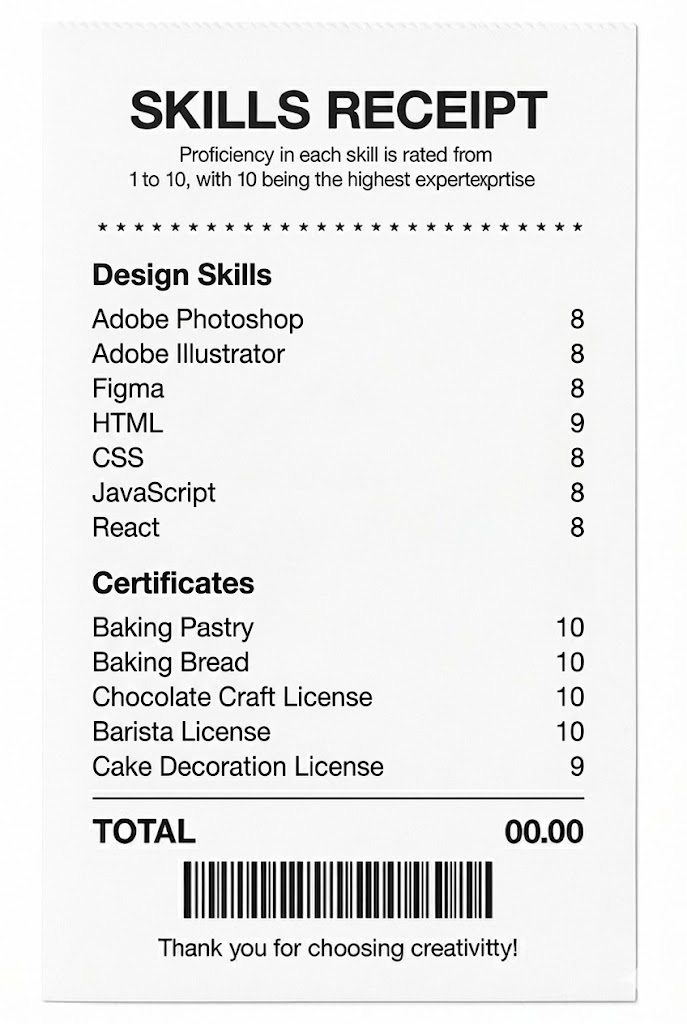
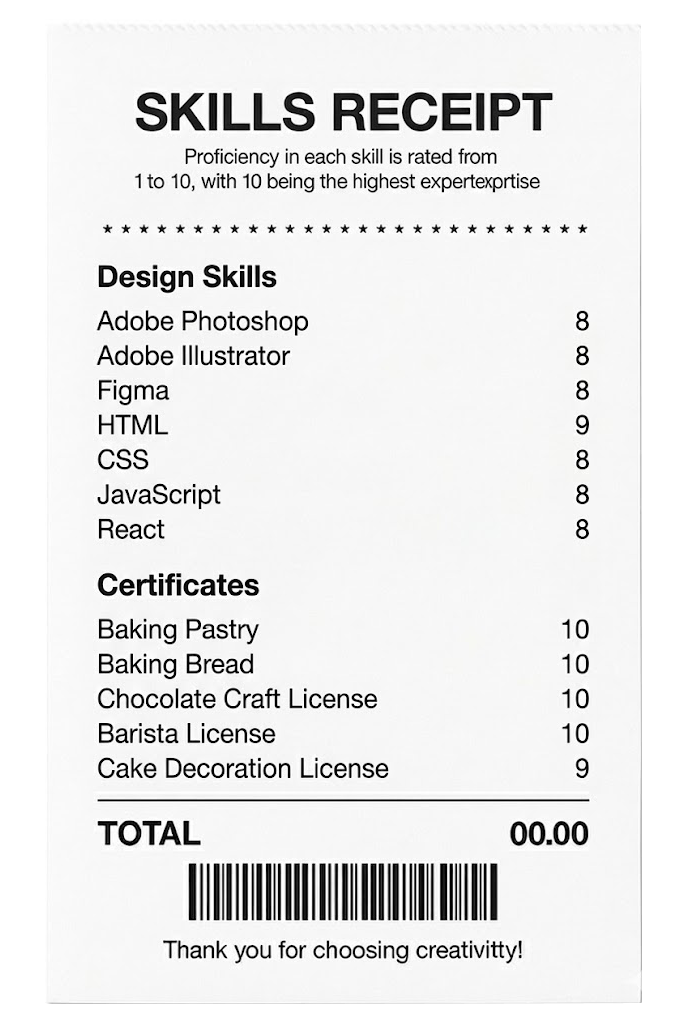
aa

diff --git a/css/styles.css b/css/styles.css
@@ -543,8 +543,8 @@ header.on.menu-open .header_logo a {
 
 .pos_skills {
     right: 15%;
-    bottom: -28%;
-    width: 350px;
+    bottom: -26%;
+    width: 420px;
     display: flex;
     align-items: flex-end;
     transform: rotate(15deg);
@@ -660,8 +660,8 @@ header.on.menu-open .header_logo a {
 
 /* Skills (영수증) - 1번 */
 .pos_skills .num_skills {
-    top: -6%;
-    right: 370px;
+    top: -1%;
+    right: 100%;
     transform: rotate(-15deg);
 
 }
